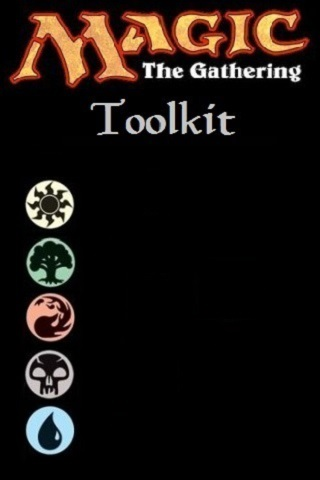
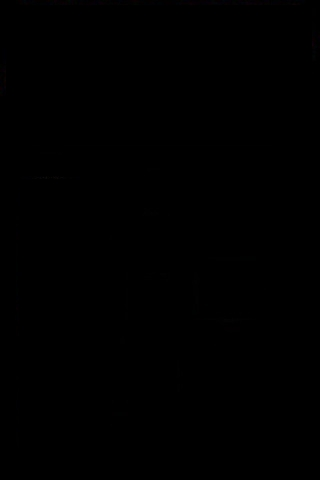
New Menu buttons
-Each button has their own image
-Thanks to @adrianovarlotta for providing those images
-Development can go on (as if it couldn't).

Changed region(s): [[0.0312, 0.0, 0.9688, 0.2812], [0.0625, 0.375, 0.25, 0.9688]]

diff --git a/css/320x480/style.css b/css/320x480/style.css
@@ -20,8 +20,8 @@
 }
 
 @font-face {
-font-family: 'magic';
-src: url('../fonts/magic.ttf?') format('truetype');
+font-family: magic;
+src: url('../fonts/magic.TTF?') format('truetype');
 }
 
 
@@ -60,15 +60,88 @@ body {
   position: absolute;
 }
 
+/* VIEW  SPLASH  BEGINNING*/
 #views-splash {
   left: 0%;
   background: url("../../images/background.jpg") no-repeat scroll 0 0 rgba(0, 0, 0, 0);
 }
 
+#views #views-splash {
+  width: 100%;
+  transform: translateX(0%);
+  -moz-transform: translateX(0%);
+  
+}
+/* VIEW  SPLASH  END*/
+
+/* VIEW  MENU  BEGINNING*/
+
+
 #views-menu {
   left: 100%;
   background: url("../../images/background-menu.jpg") no-repeat scroll 0 0 rgba(0, 0, 0, 0);
 }
+
+#views #views-menu {
+  width: 100%;
+  transform: translateX(-100%);
+  -moz-transform: translateX(-100%);
+}
+
+.views-menu-clickable-region{
+  float: left;
+  margin-left:25px;
+  margin-top:8px;
+  width: 266px;
+  height: 48px;
+  border-radius: 63px;
+}
+
+.views-menu-title {
+  background: url("../../images/bg-title.png") no-repeat scroll 0 0 rgba(0, 0, 0, 0);
+  width: 320px;
+  height: 154px;
+}
+
+.views-menu-button-white{
+  background: url("../../images/bg-button-white.png");
+  width: 320px;
+  height: 66px;
+}
+
+.views-menu-button-green{
+  background: url("../../images/bg-button-green.png");
+  width: 320px;
+  height: 62px;
+}
+
+.views-menu-button-red{
+  background: url("../../images/bg-button-red.png");
+  width: 320px;
+  height: 64px;
+}
+
+.views-menu-button-black{
+  background: url("../../images/bg-button-black.png");
+  width: 320px;
+  height: 64px;
+}
+
+.views-menu-button-blue{
+  background: url("../../images/bg-button-blue.png");
+  width: 320px;
+  height: 70px;
+}
+
+.buttons-text{
+  font-family: magic;
+  font-size: 30px;
+  color: black;
+  float: left;
+  margin-left: 65px;
+  margin-top: 12px;
+}
+/* VIEW  MENU  END*/
 
 #views-counter {
   left: 200%;
@@ -81,19 +154,6 @@ body {
 #views-mechanics {
   left: 400%;
   height: 100%;
-}
-
-#views #views-splash {
-  width: 100%;
-  transform: translateX(0%);
-  -moz-transform: translateX(0%);
-  
-}
-
-#views #views-menu {
-  width: 100%;
-  transform: translateX(-100%);
-  -moz-transform: translateX(-100%);
 }
 
 #views #views-counter {

diff --git a/splashscreen.html b/splashscreen.html
@@ -10,13 +10,28 @@
     <script defer src="js/jquery-1.11.0.min.js"></script>
     <script defer src="js/mtg.js"></script>
   </head>
-  <body role="application" onload="initiate()">
+  <body role="application">
      <div id="views">
         <div id="views-splash" class="view hidden">
-                
         </div>
         <div id="views-menu" class="view hidden">
-            
+          <div id="title" class="views-menu-title">
+          </div>
+          <div id="button-white" class="views-menu-button-white">
+            <a class="views-menu-clickable-region"> <p class="buttons-text"> Card Searcher</p> </a>
+          </div>
+          <div id="button-green" class="views-menu-button-green">
+            <a class="views-menu-clickable-region"> <p class="buttons-text"> Life Counter</p> </a>
+          </div>
+          <div id="button-red" class="views-menu-button-red">
+            <a class="views-menu-clickable-region"> <p class="buttons-text"> Mechanics</p> </a>
+          </div>
+          <div id="button-black" class="views-menu-button-black">
+            <a class="views-menu-clickable-region"> <p class="buttons-text"> Suggestions</p> </a>
+          </div>
+          <div id="button-blue" class="views-menu-button-blue">
+            <a class="views-menu-clickable-region"> <p class="buttons-text"> Credits</p> </a>
+          </div>
         </div>
         <div id="views-counter" class="view hidden">
             

diff --git a/js/mtg.js b/js/mtg.js
@@ -74,9 +74,10 @@ var ModeManager = {
     }
 };
 
+$( document ).ready(function() { init();});
 
-function initiate(){
-	this.ModeManager.start(MODE_SPLASH, showMenu());
+function init(){
+  this.ModeManager.start(MODE_SPLASH, showMenu());
 }
 
 function showMenu(){
